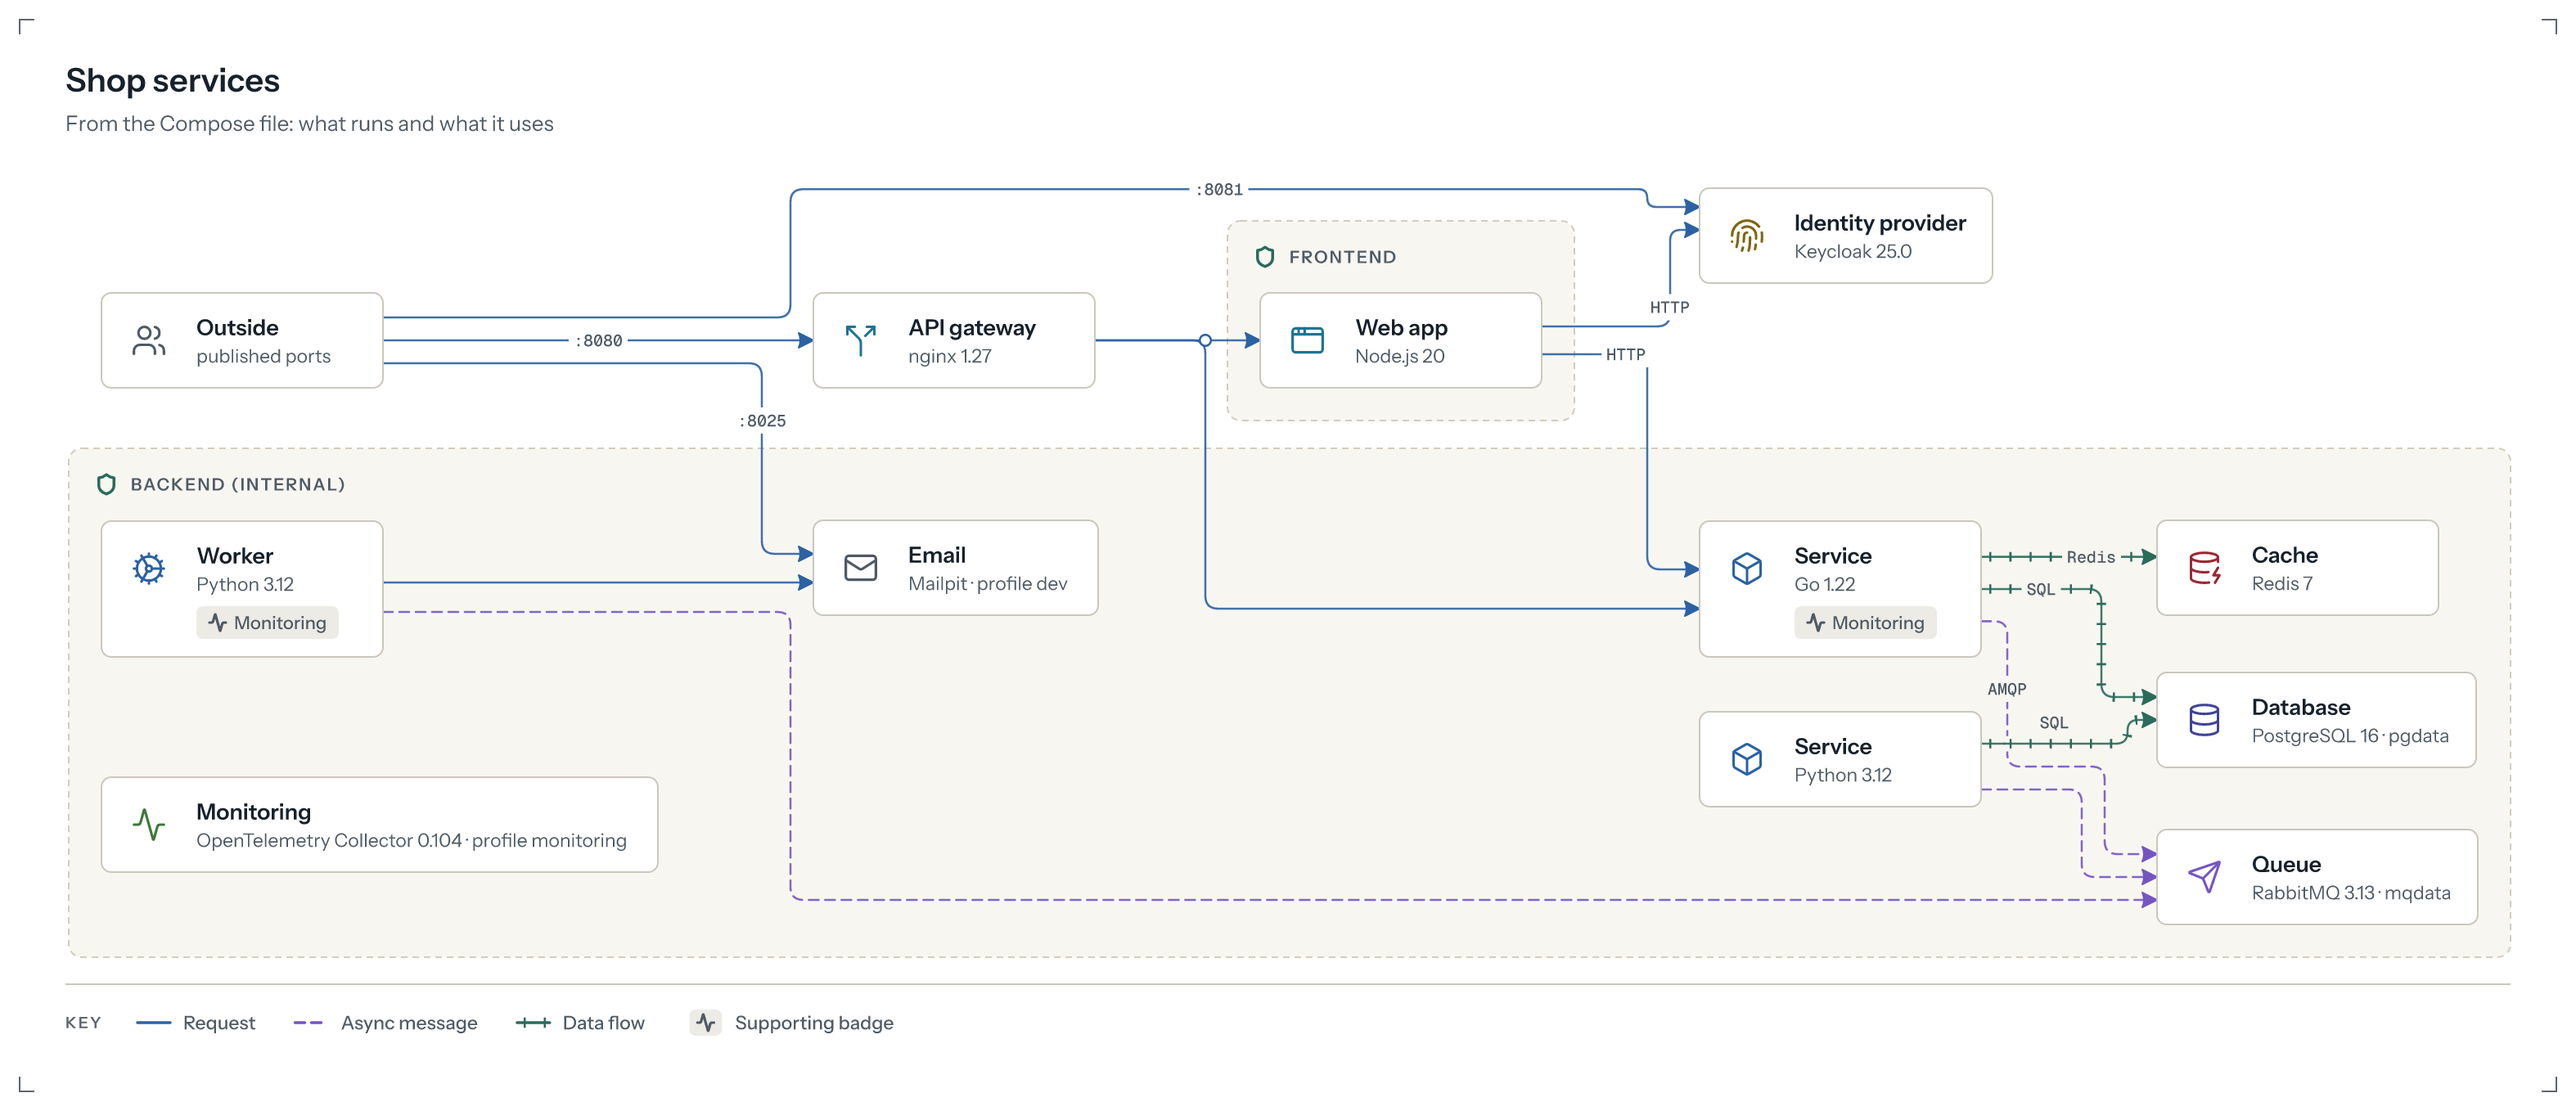
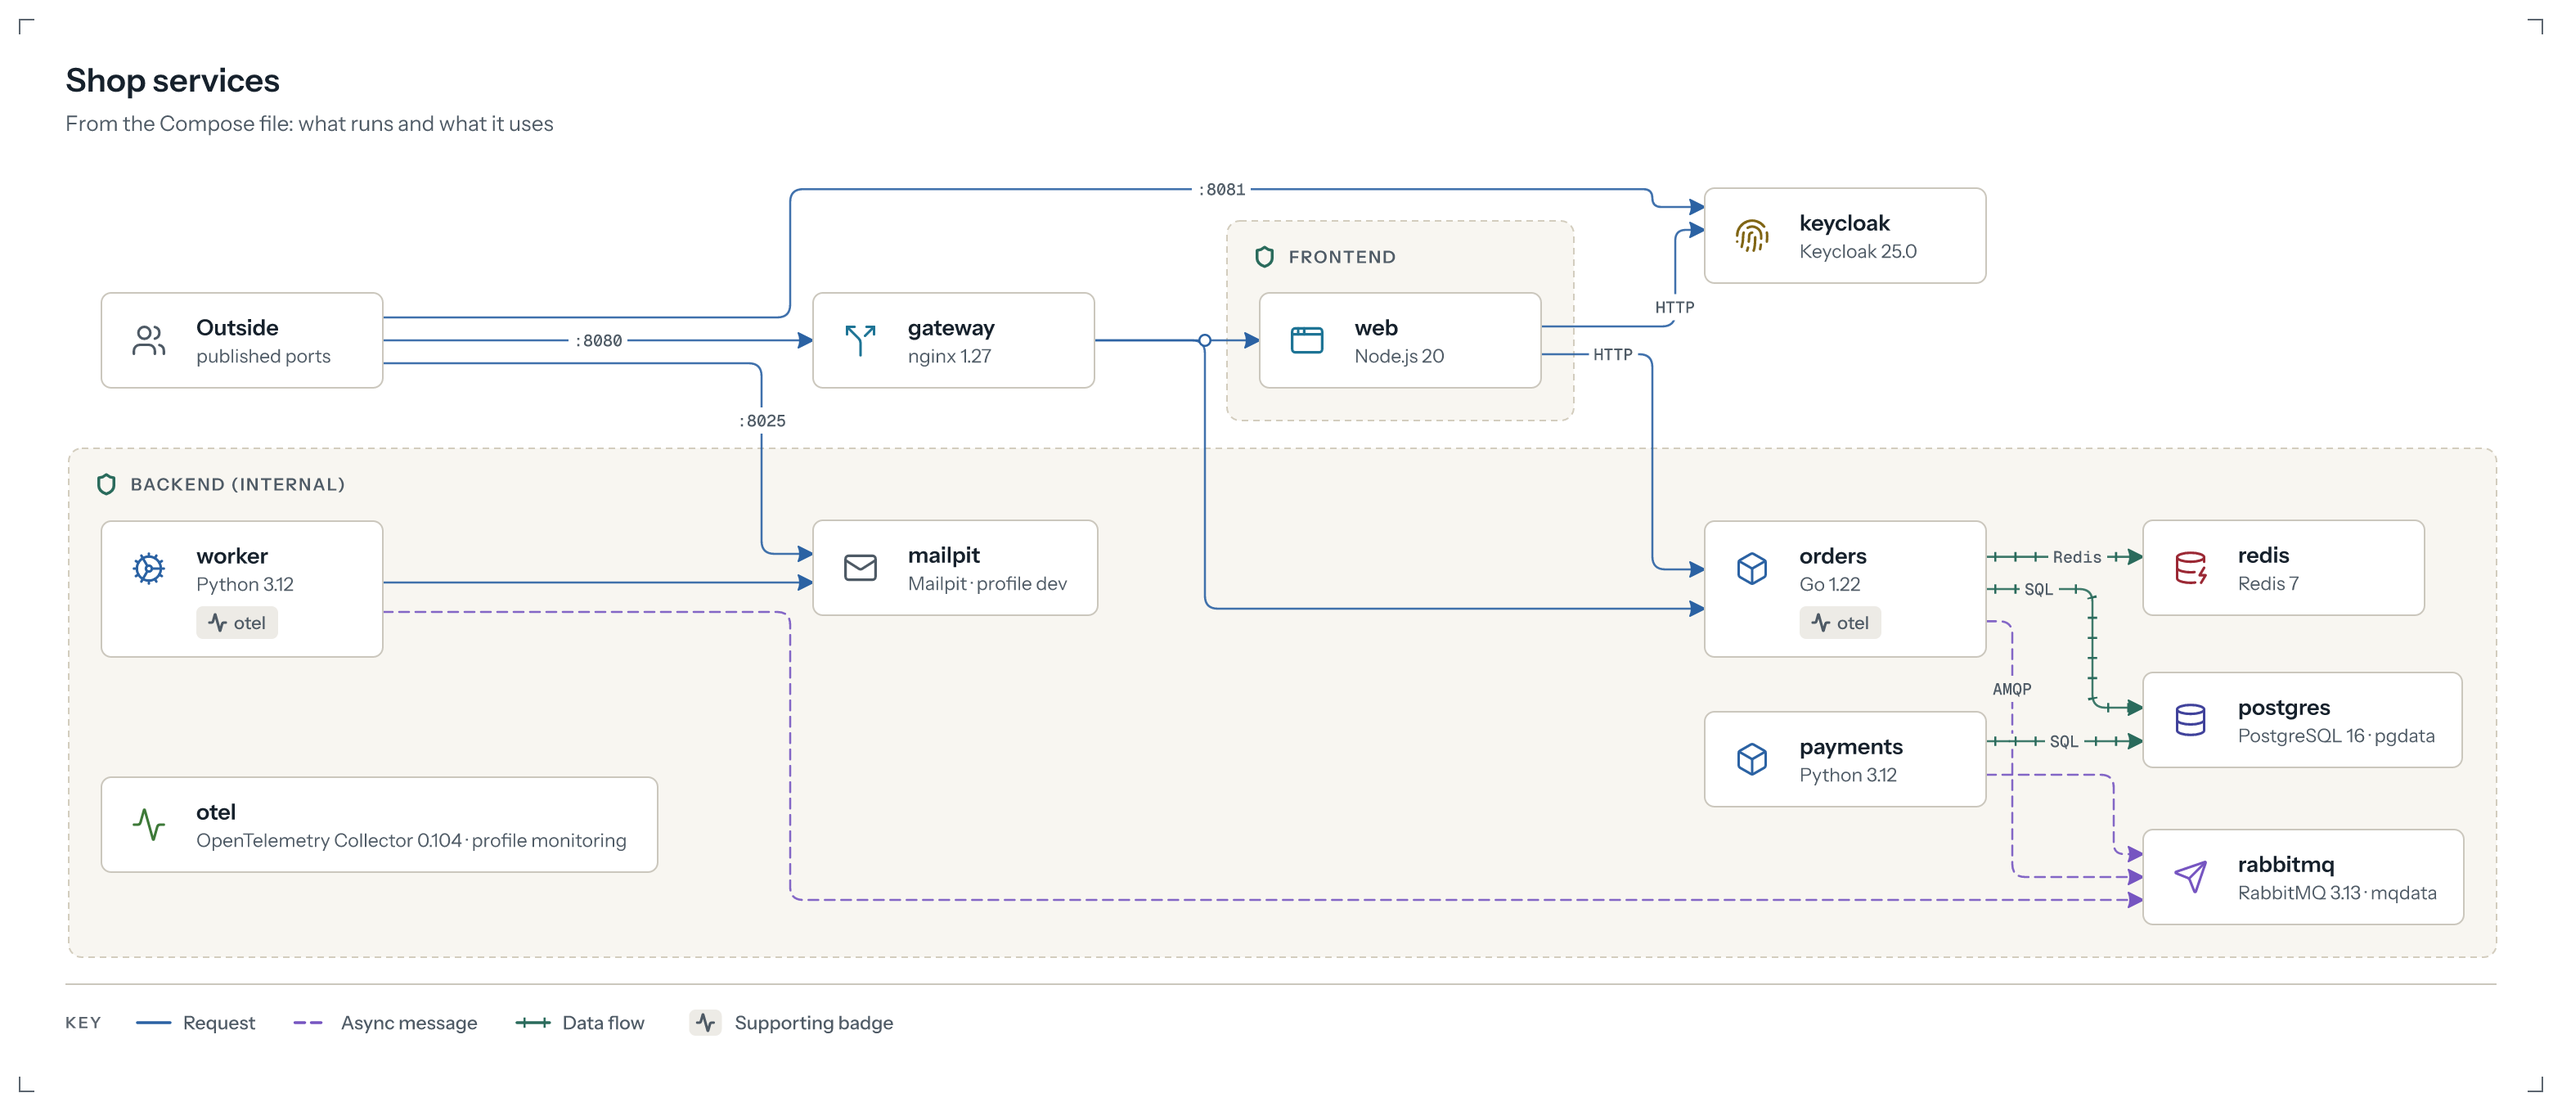
Compose cards keep the service's name as label; Chart.yaml is not a diagram file; describe snapshots of the sample repository; CLI test

diff --git a/packages/cli/test/cli.test.ts b/packages/cli/test/cli.test.ts
@@ -251,6 +251,23 @@ describe('carto import and diff of access and GitHub exports', () => {
     expect(read('tenant.yaml')).toContain('label: Developers');
   }, 60_000);
 
+  it('imports a code repository into diagrams/, and again keeps what was changed by hand', () => {
+    fs.cpSync(path.join(root, 'examples/repo/shop'), path.join(tmp, 'shop'), { recursive: true, filter: (src) => !src.includes(`${path.sep}diagrams`) });
+    const dry = carto('import', 'shop', '--dry-run');
+    expect(dry.code).toBe(0);
+    expect(dry.out).toContain('compose.yaml → shop/diagrams/services.yaml 9 services, 2 stores, 2 networks (not written: --dry-run)');
+    expect(exists('shop/diagrams')).toBe(false);
+    const first = carto('import', 'shop', '--values', 'shop/deploy/helm/shop/values-prod.yaml');
+    expect(first.code).toBe(0);
+    expect(fs.readdirSync(path.join(tmp, 'shop/diagrams')).sort()).toEqual(['events.yaml', 'infra-azure.yaml', 'kubernetes.yaml', 'services.yaml', 'shop-api-callbacks.yaml', 'shop-api.yaml', 'shop-chart.yaml', 'workflow-ci.yaml', 'workflow-deploy.yaml']);
+    expect(read('shop/diagrams/shop-chart.yaml')).toMatch(/replicas: "?4-20/);
+    expect(first.out).toContain('also: infra/dns: Terraform source');
+    write('shop/diagrams/services.yaml', read('shop/diagrams/services.yaml').replace('  web: { kind: client, label: web,', '  web: { kind: client, label: Storefront,'));
+    const again = carto('import', 'shop');
+    expect(again.out).toContain('services.yaml 9 services, 2 stores, 2 networks, what was added by hand kept');
+    expect(read('shop/diagrams/services.yaml')).toContain('label: Storefront');
+  }, 90_000);
+
   it('says a flag it does not know, and stops', () => {
     const r = carto('import', az('kestrel'), '--principals', 'some', '-o', '-');
     expect(r.code).toBe(1);

diff --git a/packages/core/src/workspace.ts b/packages/core/src/workspace.ts
@@ -147,7 +147,8 @@ export const GRAPH_TYPES = new Set(['model', 'c4', 'systems', 'azure', 'cloud', 
 const PROSE = new Set(['label', 'title', 'subtitle', 'caption', 'description', 'note', 'notes', 'technology', 'owner', 'kind', 'class', 'version', 'icon', 'tone', 'file', 'links']);
 
 /** Diagram files of a folder: YAML with a top-level type:, not a data contract or a layout. */
-export const isDiagramFile = (path: string, text: string) => /\.ya?ml$/i.test(path) && !/\.(odcs|block)\.ya?ml$/i.test(path) && /^type:\s*[\w-]+/m.test(text);
+// A Helm chart's Chart.yaml (type: application) and Kubernetes manifests have a top-level type: too, and are code, not diagrams.
+export const isDiagramFile = (path: string, text: string) => /\.ya?ml$/i.test(path) && !/\.(odcs|block)\.ya?ml$/i.test(path) && /^type:\s*[\w-]+/m.test(text) && !/(^|\/)Chart\.yaml$/.test(path) && !/^apiVersion\s*:/m.test(text);
 
 const dirOf = (file: string) => file.split('/').slice(0, -1).join('/');
 

diff --git a/packages/import/src/compose.ts b/packages/import/src/compose.ts
@@ -183,7 +183,8 @@ export function importCompose(text: string, opts: ComposeOptions = {}): Imported
     if (kind === 'external' || kind === 'user' || kind === 'users') kind = 'service';
     kinds.set(id(name), kind);
     const caption = (image && product(image)) ?? (hint?.base ? (product(hint.base) ?? (hint.first ? product(hint.first) : undefined)) : undefined) ?? (image ? imageName(image).name : undefined);
-    const entry: Obj = { kind, label: name === id(name) ? undefined : name };
+    // The service's own name is the label: without one, a card would be named after its kind.
+    const entry: Obj = { kind, label: name };
     if (caption) entry.caption = caption;
     const profiles = list(s.profiles);
     if (profiles.length) profiled.set(name, profiles);

diff --git a/packages/import/test/repo-import.test.ts b/packages/import/test/repo-import.test.ts
@@ -395,7 +395,7 @@ describe('scanRepo', () => {
     const first = scanRepo(files, { name: 'shop' });
     const services = first.diagrams.find((d) => d.kind === 'compose')!;
     const edited = services.yaml
-      .replace('  web: { kind: client,', '  web: { kind: client, label: Storefront,')
+      .replace('  web: { kind: client, label: web,', '  web: { kind: client, label: Storefront,')
       .replace('\nedges:\n', '  stripe: { kind: payments, label: Stripe }\n\nedges:\n  - payments -> stripe: charge\n')
       .replace('  redis:', '  # the cache\n  redis:');
     const compose = files.find((f) => f.path === 'compose.yaml')!;
